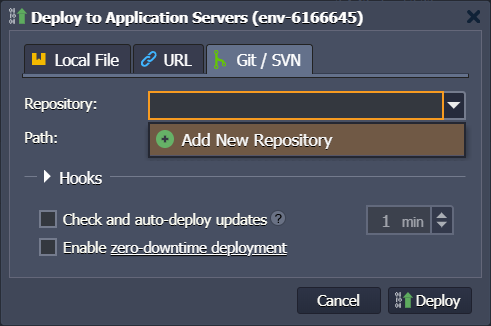
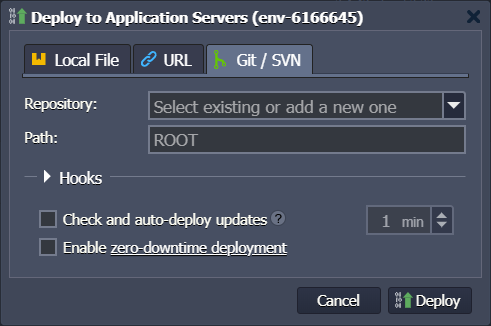
finish cloud_install image annotations

Changed region(s): [[0.2749, 0.2761, 0.947, 0.4908]]

diff --git a/docs/getting-started/cloud_install.md b/docs/getting-started/cloud_install.md
@@ -24,19 +24,23 @@ This guide is for installing Kora in a [Reclaim Cloud](https://reclaim.cloud/) e
 
     <img style="display:block;margin:auto;max-width:100%" src="../getting-started-img/cloud_install_2_annotated.png" title="">
 
-4. Leave Apache layer, which is the blue block with a red feather, as-is; Click on "SQL" layer under it to add MySQL Layer. Use the dropdown on this block to change from MariaDB to MySQL SE 8.0.20.
+4. Return to the Apache Layer view by clicking on it, which is the blue block with a red feather in the middle.
+
+    <img style="display:block;margin:auto;max-width:100%" src="../getting-started-img/cloud_install_46_annotated.png" title="">
+
+    Leave Apache layer as-is; Click on "SQL" layer under it to add MySQL Layer. Use the dropdown on this block to change from MariaDB to MySQL SE 8.0.20.
 
     <img style="display:block;margin:auto;max-width:100%" src="../getting-started-img/cloud_install_3_annotated.png" title="">
 
-5. While viewing the settings for the Apache layer, in middle panel area, use the PHP dropdown menu to change to version 7.2.32.
+5. While still viewing the settings for the Apache layer, in middle panel area, use the PHP dropdown menu to change to version 7.2.32.
 
     <img style="display:block;margin:auto;max-width:100%" src="../getting-started-img/cloud_install_4_annotated.png" title="">
 
     In the same area area, use slider for "Application Servers" to set Scaling Limit to at least 8 cloudlets, which will set the max reserve to at least Kora's minimum RAM requirement of 1 GB. The reserve can be set higher than this, if desired; doing so will allow your environment to use more CPU and/or RAM if your installation requires it at some future time. You will only be charged for higher processing power if your Kora website has enough people using it simultaneously to require the extra resources.
 
-    Leave the reserved level on 1 cloudlet
+    Leave the reserved level on 1 cloudlet.
 
-    <img style="display:block;margin:auto;max-width:100%" src="../getting-started-img/cloud_install_5_annotated.png" title="">
+    <img style="display:block;margin:auto;max-width:100%" src="../getting-started-img/cloud_install_5.1_annotated.png" title="">
 
 6. Click on "SQL" block to adjust the MySQL Layer settings. In middle panel area, use slider for "Application Servers" to set Scaling Limit to at least 8 cloudlets, which will set the max reserve to at least Kora's minimum RAM requirement of 1 GB. Either leave the reserved level at its default of 3 cloudlets, or drop it to 1 cloudlet.
 
@@ -71,11 +75,11 @@ This guide is for installing Kora in a [Reclaim Cloud](https://reclaim.cloud/) e
 
     <img style="display:block;margin:auto;max-width:100%" src="../getting-started-img/cloud_install_10_annotated.png" title="">
 
-    Click button for "User Accounts" in top menu, highlighted in the screenshot above. This will bring up the list of existing users.
+    Click the tab for "User Accounts" in the top menu, highlighted in the screenshot above. This will bring up the list of existing users.
 
     <img style="display:block;margin:auto;max-width:100%" src="../getting-started-img/cloud_install_11_annotated.png" title="">
 
-5. Click on "Add user account" (highlighte in the previous screenshot) to reach the page for adding new database users.
+5. Click on "Add user account" (highlighted in the previous screenshot) to reach the page for adding new database users.
 
     <img style="display:block;margin:auto;max-width:100%" src="../getting-started-img/cloud_install_12_annotated.png" title="">
 
@@ -89,7 +93,7 @@ This guide is for installing Kora in a [Reclaim Cloud](https://reclaim.cloud/) e
 
 ## Configure PHP Modules
 
-1. In the dashboard, hover over "Application Servers" and click on wrench icon for "Config."
+1. In the dashboard, hover over "Application Servers" and click on the wrench icon, for "Config."
 
     <img style="display:block;margin:auto;max-width:100%" src="../getting-started-img/cloud_install_14_annotated.png" title="">
 
@@ -101,7 +105,7 @@ This guide is for installing Kora in a [Reclaim Cloud](https://reclaim.cloud/) e
 
     <img style="display:block;margin:auto;max-width:100%" src="../getting-started-img/cloud_install_16_annotated.png" title="">
 
-3. Use Search function to locate each of these modules:
+3. Use the built-in "Search" function to locate each of these modules:
 
     `gd`, `imagick`, `imap`, `intl`, `ldap`, `pgsql` (NOT "pdo_pgsql"), `snmp`, `soap`, `wddx`, `xmlrpc`, `xsl`
 
@@ -141,9 +145,9 @@ This guide is for installing Kora in a [Reclaim Cloud](https://reclaim.cloud/) e
 
     <img style="display:block;margin:auto;max-width:100%" src="../getting-started-img/cloud_install_18_annotated.png" title="">
 
-    Click "Yes" for the warning for "Restart Apache nodes?"
+    Click "Yes" for the warning for "Restart Apache nodes?" Wait for the notification indicating that the nodes have been successfully restarted.
 
-7. Hover on "Application Servers" and click on the icon for "Open in Browser"
+7. Next, hover on "Application Servers" and click on the icon for "Open in Browser"
 
     <img style="display:block;margin:auto;max-width:100%" src="../getting-started-img/cloud_install_19_annotated.png" title="">
 
@@ -165,11 +169,11 @@ When creating your new Kora website, you have two basic options for how your URL
 
 1. Back at the dashboard, hover on "Application Servers" and click on icon for "Web SSH"
 
-    <img style="display:block;margin:auto;max-width:100%" src="../getting-started-img/cloud_install_25_annotated.png" title="">
+    <img style="display:block;margin:auto;max-width:100%" src="../getting-started-img/cloud_install_21_annotated.png" title="">
 
 2. Display will open with an SSH terminal
 
-    <img style="display:block;margin:auto;max-width:100%" src="../getting-started-img/cloud_install_26_annotated.png" title="">
+    <img style="display:block;margin:auto;max-width:100%" src="../getting-started-img/cloud_install_22_annotated.png" title="">
 
 3. Use the following command to navigate to the directory just above your environment's Document Root (contents of Document Root is what's visible via your environment's URL)
 
@@ -177,7 +181,7 @@ When creating your new Kora website, you have two basic options for how your URL
 
     You can either type this code in, or copy it and then paste it into the terminal using a keyboard shortcut. Your terminal will look like this:
 
-    <img style="display:block;margin:auto;max-width:100%" src="../getting-started-img/cloud_install_alt_1_annotated.png" title="">
+    <img style="display:block;margin:auto;max-width:100%" src="../getting-started-img/cloud_install_23_annotated.png" title="">
 
 
 4. Open a new browser tab and navigate to [https://github.com/matrix-msu/kora/releases](https://github.com/matrix-msu/kora/releases). Click the dropdown menu for "Assets" of most recent release. Right-click on the "Source Code (zip)" file link and copy this file's URL.
@@ -188,7 +192,7 @@ When creating your new Kora website, you have two basic options for how your URL
 
 6. Hit "Enter" and let the command run. During the file transfer process, your terminal will look similar to this:
 
-    <img style="display:block;margin:auto;max-width:100%" src="../getting-started-img/cloud_install_alt_2_annotated.png" title="">
+    <img style="display:block;margin:auto;max-width:100%" src="../getting-started-img/cloud_install_24_annotated.png" title="">
 
     The file will be named the last part of the URL where you fetched it from. In this example, the name is `3.0.0.zip`. If needed, you can run the command `ls` to view a list of the directory's contents. The newly-added zip file should be listed.
 
@@ -198,7 +202,7 @@ When creating your new Kora website, you have two basic options for how your URL
 
     The system will create a new directory with the contents of this zip in a directory "kora-[zip-file-name]". In this example, the directory is named "kora-3.0.0"; if needed, you can again use `ls` to confirm the directory's name. You can also see the name of the directory at the beginning of each line that displays after running the `unzip` command:
 
-    <img style="display:block;margin:auto;max-width:100%" src="../getting-started-img/cloud_install_alt_3_annotated.png" title="">
+    <img style="display:block;margin:auto;max-width:100%" src="../getting-started-img/cloud_install_25_annotated.png" title="">
 
 
 8. Use the move command to rename the directory as "kora". Be sure to use the exact directory name that displayed. An example of this command is:
@@ -213,7 +217,7 @@ When creating your new Kora website, you have two basic options for how your URL
 
     After the `mv` and `cd` commands, your terminal will look similar to this:
 
-    <img style="display:block;margin:auto;max-width:100%" src="../getting-started-img/cloud_install_alt_4_annotated.png" title="">
+    <img style="display:block;margin:auto;max-width:100%" src="../getting-started-img/cloud_install_26_annotated.png" title="">
 
 10. Use the copy command `cp` to make a new copy of the ".env.example" file, but with the name ".env" This command looks like:
 
@@ -221,7 +225,7 @@ When creating your new Kora website, you have two basic options for how your URL
 
     When `cp` is successful, there won't be a message; the terminal will simply create a new line with the command prompt. So your terminal will look like this:
 
-    <img style="display:block;margin:auto;max-width:100%" src="../getting-started-img/cloud_install_alt_5_annotated.png" title="">
+    <img style="display:block;margin:auto;max-width:100%" src="../getting-started-img/cloud_install_27_annotated.png" title="">
 
 11. Use the `nano` file editing program built into this version of Linux to make changes to the .env file. The command is:
 
@@ -245,6 +249,8 @@ When creating your new Kora website, you have two basic options for how your URL
     If you used "kora" for the user you set up in phpMyAdmin, and you checked the "Create database with same name and grant all privileges" box when creating it, leave the `DB_DATABASE=` and `DB_USERNAME=` lines alone; otherwise, change them to match the username and database names you created in phpMyAdmin.
 
     On the `DB_PASSWORD=` line, change "kora" to the password you saved from the process of creating the user in phpMyAdmin. Again, use the nano-specific keyboard shortcut for pasting, if copied from elsewhere.
+
+    (You can see how this file will appear after editing in the screenshot below, in Step 15.)
 
 13. Leave the rest of this file alone. Use the proper keyboard shortcut for exiting nano on your computer; for a Windows machine, this is crtl + x. The system will ask you if you wish to save your changes; hit "y" for yes. Then hit "enter" to confirm that the file name is ".env"
 
@@ -323,7 +329,7 @@ When creating your new Kora website, you have two basic options for how your URL
 
         ln -s ../kora/public kora
 
-    Once you have run this command, your terminal will look like this:
+    Once you have run this command, your terminal will look similar to this:
 
     <img style="display:block;margin:auto;max-width:100%" src="../getting-started-img/cloud_install_39_annotated.png" title="">
 
@@ -335,15 +341,15 @@ The second option for configuring your webpage's URL is to have it accessible at
 
 1. In the dashboard, hover on the line "Deployments" for your environment, and click on "Deploy from Git / SVN."
 
-    <img style="display:block;margin:auto;max-width:100%" src="../getting-started-img/cloud_install_27_annotated.png" title="">
+    <img style="display:block;margin:auto;max-width:100%" src="../getting-started-img/cloud_install_28_annotated.png" title="">
 
 2. This will open a new modal, for configuring a repository from which to pull files.
 
-    <img style="display:block;margin:auto;max-width:100%" src="../getting-started-img/cloud_install_28_annotated.png" title="">
+    <img style="display:block;margin:auto;max-width:100%" src="../getting-started-img/cloud_install_29_annotated.png" title="">
 
     Click on the dropdown menu for "Repository" and choose "Add New Repository."
 
-    <img style="display:block;margin:auto;max-width:100%" src="../getting-started-img/cloud_install_29_annotated.png" title="">
+    <img style="display:block;margin:auto;max-width:100%" src="../getting-started-img/cloud_install_30_annotated.png" title="">
 
 3. Another new modal will open, for adding a new repository. In this modal, give this configuration a name; for instance "Kora," since this will be pointed at the official Kora repository managed by Matrix at MSU. Point it at this repository by pasting in the following address into the "URL" text box:
 
@@ -351,21 +357,17 @@ The second option for configuring your webpage's URL is to have it accessible at
 
     Leave the "Branch" text box with its default "master" text. The modal should look similar to this:
 
-    <img style="display:block;margin:auto;max-width:100%" src="../getting-started-img/cloud_install_30_annotated.png" title="">
+    <img style="display:block;margin:auto;max-width:100%" src="../getting-started-img/cloud_install_31_annotated.png" title="">
 
-4. Click "Add" on this modal, which will return you to the previous modal with "Kora" selected for the "Repository." Again leave "Branch" text as defaulted to "master"; additionally, also leave the "Path" text box with its "ROOT" default.
+4. Click "Add" on this modal (highlighted above), which will return you to the previous modal with "Kora" selected for the "Repository." Again leave "Branch" text as defaulted to "master"; additionally, also leave the "Path" text box with its "ROOT" default. Click "Deploy" in the lower-right to have the Development Manager transfer all of the files from the kora repository on GitHub into your environment's ROOT folder.
 
     <img style="display:block;margin:auto;max-width:100%" src="../getting-started-img/cloud_install_42_annotated.png" title="">
-
-    Then click "Deploy" to have the Development Manager transfer all of the files from the kora repository on GitHub into your environment's ROOT folder.
-
-
 
 5. Currently, your ROOT folder is set as your URL's DocumentRoot, but this would be quite insecure for your Kora application, so this must be changed. To do so, once again hover over "Application Servers" and again click on wrench icon for "Config."
 
     <img style="display:block;margin:auto;max-width:100%" src="../getting-started-img/cloud_install_14_annotated.png" title="">
 
-    This will again bring up the "Application Servers : Configs" tab in the bottom panel.
+    This will bring up the "Application Servers : Configs" tab in the bottom panel.
 
     <img style="display:block;margin:auto;max-width:100%" src="../getting-started-img/cloud_install_15_annotated.png" title="">
 
@@ -411,11 +413,11 @@ The second option for configuring your webpage's URL is to have it accessible at
 
 11. After your nodes restart, hover on "Application Servers" again and click on icon for "Web SSH"
 
-    <img style="display:block;margin:auto;max-width:100%" src="../getting-started-img/cloud_install_25_annotated.png" title="">
+    <img style="display:block;margin:auto;max-width:100%" src="../getting-started-img/cloud_install_32_annotated.png" title="">
 
-12. Display will open with an SSH terminal
+12. The panel at the bottom will open a new tab with an SSH terminal.
 
-    <img style="display:block;margin:auto;max-width:100%" src="../getting-started-img/cloud_install_26_annotated.png" title="">
+    <img style="display:block;margin:auto;max-width:100%" src="../getting-started-img/cloud_install_22_annotated.png" title="">
 
 13. Use the following command to navigate to the directory where the Development Manager has transferred all the kora repository files to:
 
@@ -455,6 +457,8 @@ The second option for configuring your webpage's URL is to have it accessible at
     If you used "kora" for the user you set up in phpMyAdmin, and you checked the "Create database with same name and grant all privileges" box when creating it, leave the `DB_DATABASE=` and `DB_USERNAME=` lines alone; otherwise, change them to match the username and database names you created in phpMyAdmin.
 
     On the `DB_PASSWORD=` line, change "kora" to the password you saved from the process of creating the user in phpMyAdmin. Again, use the nano-specific keyboard shortcut for pasting, if copied from elsewhere.
+
+    (You can see how this file will appear after editing in the screenshot below, in Step 19.)
 
 17. Leave the rest of this file alone. Use the proper keyboard shortcut for exiting nano on your computer; for a Windows machine, this is crtl + x. The system will ask you if you wish to save your changes; hit "y" for yes. Then hit "enter" to confirm that the file name is ".env"
 
@@ -639,6 +643,6 @@ Hover on the environment and click on the icon for "Change Environment Topology"
 
 The environment configuration modal will open, where you can make the necessary adjustments. For instance, you can increase the Scaling Limits for either your Apache/PHP layer or MySQL layer. You can also increase the disk limit of either. The disk limit setting is highlighted in this screenshot:
 
-<img style="display:block;margin:auto;max-width:100%" src="../getting-started-img/cloud_install_5.1_annotated.png" title="">
+<img style="display:block;margin:auto;max-width:100%" src="../getting-started-img/cloud_install_5.2_annotated.png" title="">
 
 If increasing disk size, be sure to adjust the size on the Apache/PHP layer, as this is the one that corresponds to your Kora installation files; the disk limit on your MySQL layer corresponds to the database itself and is unlikely to need an adjustment upward from its default.
